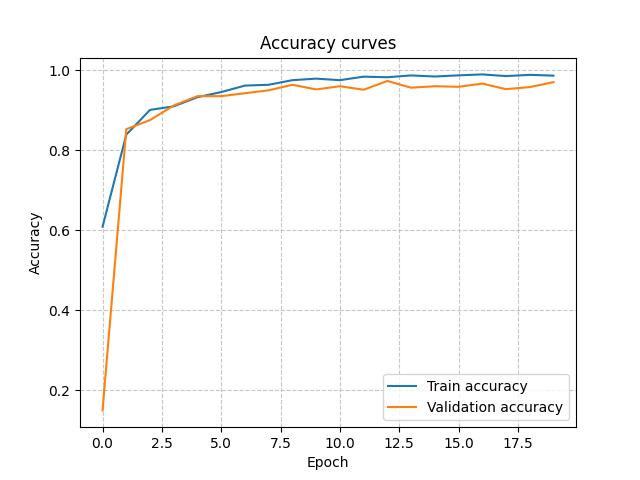
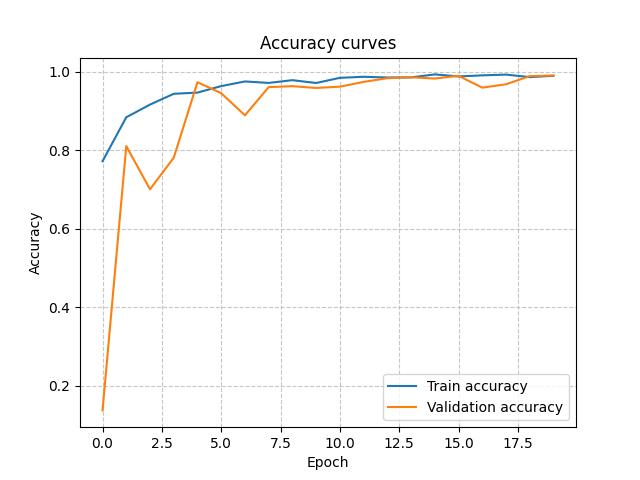
improved accuracy, modified Distribution, now can work with one dir with only 1 layer of sub dirs

diff --git a/Distribution.py b/Distribution.py
@@ -2,67 +2,67 @@
 
 import os
 import matplotlib.pyplot as plt
+import sys
 
 
 def count_images_in_subdirs(root_dir: str) -> dict:
     """Return a nested dict mapping { plant: { subtype: image_count } }"""
     data = {}
-    for plant in os.listdir(root_dir):
-        plant_path = os.path.join(root_dir, plant)
-        if os.path.isdir(plant_path):
-            counts = {}
-            for subtype in os.listdir(plant_path):
-                subtype_path = os.path.join(plant_path, subtype)
-                if os.path.isdir(subtype_path):
-                    num_images = sum(
-                        1 for f in os.listdir(subtype_path)
-                        if os.path.isfile(os.path.join(subtype_path, f))
-                    )
-                    counts[subtype] = num_images
-            if counts:
-                data[plant] = counts
+    for subtype in os.listdir(root_dir):
+        subtype_path = os.path.join(root_dir, subtype)
+        if os.path.isdir(subtype_path):
+            num_images = sum(
+                1 for f in os.listdir(subtype_path)
+                if os.path.isfile(os.path.join(subtype_path, f))
+            )
+        data[subtype] = num_images
     return data
 
 
-def plot_charts(data: dict) -> None:
+def plot_charts(data: dict, title: str) -> None:
     """Generate histogram and pie chart for each plant"""
 
-    colors = ["#D99090", "#90A8D1", "#A8C5A0", "#C2A0D6"]
-    for plant, counts in data.items():
-        labels = list(counts.keys())
-        values = list(counts.values())
+    colors = ["#D99090", "#90A8D1", "#A8C5A0", "#C2A0D6", "#8CBAC5", "#E5BE86", "#D27B7B", "#AE71AD"]
 
-        plt.figure(figsize=(8, 5))
-        bars = plt.bar(labels, values)
-        for i, (bar, label) in enumerate(zip(bars, labels)):
-            bar.set_label(label)
-            bar.set_color(colors[i])
-        plt.title(f"{plant} - Image Count by Category")
-        plt.xlabel("Category")
-        plt.ylabel("Number of Images")
-        plt.tight_layout()
-        plt.legend()
-        plt.show()
+    plant = data.keys()
+    counts = data.values()
+    labels = list(plant)
+    values = list(counts)
 
-        plt.figure(figsize=(8, 8))
-        plt.pie(values, labels=labels, colors=colors, autopct="%1.1f%%", startangle=90)
-        plt.legend()
-        plt.title(f"{plant} - Category Distribution")
-        plt.show()
+    plt.figure(figsize=(8, 5))
+    bars = plt.bar(labels, values)
+    for i, (bar, label) in enumerate(zip(bars, labels)):
+        bar.set_label(label)
+        bar.set_color(colors[i])
+    plt.title(f"{title} - Image Count by Category")
+    plt.xlabel("Category")
+    plt.ylabel("Number of Images")
+    plt.tight_layout()
+    plt.legend()
+    plt.show()
+
+    plt.figure(figsize=(8, 8))
+    plt.pie(values, labels=labels, colors=colors, autopct="%1.1f%%", startangle=90)
+    plt.legend()
+    plt.title(f"{title} - Category Distribution")
+    plt.show()
 
 
 def main():
-    root_dir = os.path.join(".", "leaves")
-    if not os.path.isdir(root_dir):
-        print(f"Error: directory '{root_dir}' not found.")
-        return
-
-    data = count_images_in_subdirs(root_dir)
-    if not data:
-        print("No valid subdirectories with images found.")
-        return
-
-    plot_charts(data)
+    try:
+        if len(sys.argv) != 2:
+            raise TypeError("Wrong number of arguments. Usage: python Distribution.py <path>")
+        root_dir = os.path.join(".", sys.argv[1])
+        if not os.path.isdir(root_dir):
+            print(f"Error: directory '{root_dir}' not found.")
+            return
+        data = count_images_in_subdirs(root_dir)
+        if not data:
+            print("No valid subdirectories with images found.")
+            return
+        plot_charts(data, sys.argv[1])
+    except Exception as e:
+        print("Error:", e)
 
 
 if __name__ == "__main__":

diff --git a/srcs/model.py b/srcs/model.py
@@ -38,51 +38,72 @@ class CNN(nn.Module):
 
 
 class ResidualBlock(nn.Module):
-    def  __init__(self, in_channels, out_channels, downsample=False):
+    def __init__(self, in_channels, out_channels, downsample=False):
         super().__init__()
         stride = 2 if downsample else 1
-        self.conv1 = nn.Conv2d(in_channels, out_channels, 3, padding=1, stride=stride)
+
+        self.conv1 = nn.Conv2d(
+            in_channels, out_channels, kernel_size=3, stride=stride, padding=1
+        )
         self.bn1 = nn.BatchNorm2d(out_channels)
-        self.conv2 = nn.Conv2d(out_channels, out_channels, 3, padding=1)
+
+        self.conv2 = nn.Conv2d(
+            out_channels, out_channels, kernel_size=3, padding=1
+        )
         self.bn2 = nn.BatchNorm2d(out_channels)
 
-        if in_channels != out_channels or downsample:
-            self.skip = nn.Conv2d(in_channels, out_channels, 1, stride=stride)
+        if downsample or in_channels != out_channels:
+            self.skip = nn.Conv2d(in_channels, out_channels, kernel_size=1, stride=stride)
         else:
             self.skip = nn.Identity()
 
-
     def forward(self, x):
         identity = self.skip(x)
-        x = self.conv1(x)
-        x = self.bn1(x)
-        x = F.relu(x)
-        x = self.conv2(x)
-        x = self.bn2(x)
-        x += identity
-        out = F.relu(x)
-        return out
+
+        out = F.relu(self.bn1(self.conv1(x)))
+        out = self.bn2(self.conv2(out))
+
+        out += identity
+        return F.relu(out)
+
+
+def make_stage(in_channels, out_channels, num_blocks):
+    layers = []
+    # first block downsamples
+    layers.append(ResidualBlock(in_channels, out_channels, downsample=True))
+    # remaining blocks keep size
+    for _ in range(num_blocks - 1):
+        layers.append(ResidualBlock(out_channels, out_channels))
+    return nn.Sequential(*layers)
 
 
 class RESNET(nn.Module):
-        def __init__(self, num_classes=8):
-            super().__init__()
-            self.layer1 = ResidualBlock(3, 32, downsample=True)
-            self.layer2 = ResidualBlock(32, 64, downsample=True)
-            self.layer3 = ResidualBlock(64, 128, downsample=True)
-            self.layer4 = ResidualBlock(128, 128, downsample=True)
-            self.global_pool = nn.AdaptiveAvgPool2d((1, 1))
-            self.dropout = nn.Dropout(0.5)
-            self.fc = nn.Linear(128, num_classes)
+    def __init__(self, num_classes=8):
+        super().__init__()
 
+        # input 256 → 128
+        self.stem = nn.Sequential(
+            nn.Conv2d(3, 32, kernel_size=3, stride=2, padding=1),
+            nn.BatchNorm2d(32),
+            nn.ReLU(inplace=True)
+        )
 
-        def forward(self, x):
-            x = self.layer1(x)
-            x = self.layer2(x)
-            x = self.layer3(x)
-            x = self.layer4(x)
-            x = self.global_pool(x)
-            x = torch.flatten(x, 1)
-            x = self.dropout(x)
-            x = self.fc(x)
-            return x
+        self.layer1 = make_stage(32, 32, num_blocks=2)     # 128x128
+        self.layer2 = make_stage(32, 64, num_blocks=2)     # 64x64
+        self.layer3 = make_stage(64, 128, num_blocks=2)    # 32x32
+        self.layer4 = make_stage(128, 256, num_blocks=2)   # 16x16
+
+        self.global_pool = nn.AdaptiveAvgPool2d((1, 1))
+        self.fc = nn.Linear(256, num_classes)
+
+    def forward(self, x):
+        x = self.stem(x)
+        x = self.layer1(x)
+        x = self.layer2(x)
+        x = self.layer3(x)
+        x = self.layer4(x)
+
+        x = self.global_pool(x)
+        x = torch.flatten(x, 1)
+        x = self.fc(x)
+        return x

diff --git a/split.py b/split.py
@@ -6,7 +6,7 @@ import shutil
 import random as rd
 
 
-def move_file(src, dst, file):
+def move_file(src: str, dst: str, file: str) -> None:
 	try:
 		f_src = os.path.join(src, file)
 		if not os.path.exists(dst):
@@ -24,13 +24,10 @@ def main():
 			path_test = path + "_test" 
 			os.makedirs(path_test, exist_ok=True)
 			for subdir in os.listdir(path):
-				count = 0
-				for file in os.listdir(os.path.join(path, subdir)):
-					if rd.random() > 0.9:
-						move_file(os.path.join(path, subdir), os.path.join(path_test, subdir), file)
-						count += 1
-					if count > 50:
-						break
+				files_in_subdir = os.listdir(os.path.join(path, subdir))
+				sample = rd.sample(files_in_subdir, 100)
+				for file in sample:
+					move_file(os.path.join(path, subdir), os.path.join(path_test, subdir), file)
 	except Exception as e:
 		print("Error:", e)
 

diff --git a/srcs/train_utils.py b/srcs/train_utils.py
@@ -156,5 +156,5 @@ def load_weights(model, weights_path:str, device):
         try:
             model.load_state_dict(torch.load(weights_path, map_location=device))
             print(f"[Pretrained weights => ({weights_path}) loaded]")
-        except Exception as e:
+        except Exception:
             raise ValueError("Cannot load weights, please make sure weights match network")

diff --git a/readme.MD b/readme.MD
@@ -142,7 +142,45 @@ leaves_test/Apple_Black_rot/image (149).JPG,Apple_Black_rot
 ...
 ```
 
-The model achieves 95–97% accuracy across all 8 classes, demonstrating both reliability and practical usability.
+The model achieves 96–99% accuracy across all 8 classes, demonstrating both reliability and practical usability.
+
+## Performance tracking 
+
+To evaluate the impact of different model architectures and data augmentation strategies, we first use the script split.py to divide the dataset. From approximately 7,000 samples, 800 images are extracted as the test set, while the remaining data is used for training and validation. These test samples are completely unseen during training. Accuracy and the number of correct predictions are calculated exclusively on this independent test set.
+
+```bash
+python split.py leaves
+```
+
+Next, we optionally apply data augmentation using Augmentation.py.
+For each configuration, the model is trained and evaluated three times to obtain average accuracy.
+
+Training and predicting with the CNN model
+
+```bash
+python train.py leaves
+python predict.py leaves_test/ -l weights.pth
+```
+
+Training and predicting with the CNN-ResNet model
+
+```bash
+python train.py leaves -m RESNET
+python predict.py leaves_test/ -l weights.pth -m RESNET
+```
+
+
+|Setup |Acc1| Correct Pred1|Acc2| Correct Pred2|Acc3| Correct Pred3| avg Acc |
+|-------|------|------|------|------|------|------|------|
+|Raw + CNN| 96.75% |774/800 | 97.25%| 778/800| 96.62% | 773/800| 96.87%|
+|Raw + CNN-Resnet2| 99.50% |796/800 | 99.25%| 794/800| 99.38%| 795/800| 99.38%|
+|Augmented + CNN| 95.88% | 767/800 |  98.12% | 785/800| 97.12% | 777/800|97.04% |
+|Augmented + CNN-Resnet|99.25%| 794/800 | 98.62% | 789/800 |98.38% |  787/800| 98.75%|
+
+
+Due to the high quality of this dataset, a traditional CNN model is already able to achieve an accuracy between 96% and 97%. However, by increasing network depth and introducing residual connections, the ResNet-based model further improves overall accuracy to more than 98.5%, making the predictions more reliable. These results show that introducing ResNet significantly improves prediction accuracy compared with the baseline CNN model, both with and without data augmentation.
+
+Although data augmentation usually helps improve generalization, it seems to slightly reduce accuracy when used with ResNet in this task. My guess is that the dataset is already clean and consistent, so ResNet can learn strong features directly from the original images. Some augmentation operations might be introducing distortions that affect important details, which may not match the distribution of the clean test set. Because of this, the extra noise could be hurting the performance a little instead of helping.
 
 ## Summary
 
